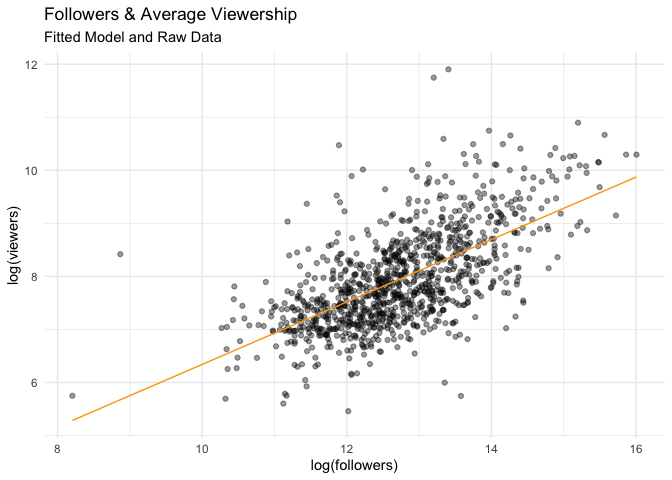
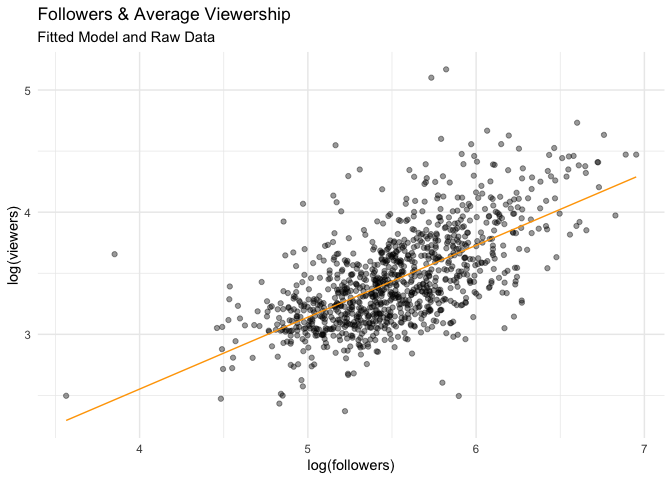
Fixing log

diff --git a/homework/chapter_5.md b/homework/chapter_5.md
@@ -1,4 +1,14 @@
-# Chapter 5
+---
+title: "Chapter 5 - Modern Dive"
+author: "Nicolas Restrepo"
+output: 
+  html_document: 
+    toc: true
+    theme: united
+    keep_md: true
+---
+
+
 
 We are getting into more complex topics, like how to fit and interpret models. In this section, we will use all the tools we have learned - from wrangling to visualization - to make sure we fit appropriate models and that we understand what these models are doing. Models can be powerful inferential tools but they can also be misleading (like anything). It is important that we know what is powering the machinery we are using so that we always know whether to trust the results we get. 
 
@@ -13,7 +23,7 @@ library(tidyverse)
 twitch_data <- read_csv("../Data/twitchdata-update.csv")
 ```
 
-The names of the variables here are a bit annoying. They are capitalized and have spaces which makes them awkward to work with in `R`. Let me show you a neat trick. First, install a package called `janitor` if you don't have it yet. Then, let's load it and clean the names. 
+The names of th variables here are a bit annoying. They are capitalized and have spaces which makes them awkward to work with in R. Let me show you a neat trick. First, install a package called `janitor` if you don't have it yet. Then, let's load it and clean the names. 
 
 
 ```r
@@ -50,20 +60,22 @@ Hopefully you have learned something important here: often the relationship betw
 
 ```r
 twitch_data <- twitch_data %>% 
-  mutate(log_viewers = log(average_viewers), 
-         log_followers = log(followers))
+  mutate(log_viewers = log10(average_viewers), 
+         log_followers = log10(followers))
 ```
 
 ## Question 2 
 
-Let's actually run a regression. Using `lm()` fit a model where you predict the logarithm of average viewers (`log_viewers`) using the logarithm of followers (`log_followers`). Save the results to an object called `fit1`.
+Let's actually run a regression. Using `lm()` fit a model where you predict the logarithm of average viewers (`log_viewers`) using the logarithm of followes (`log_followers`). Save the results to an object called `fit1`.
 
 I am going to show you another way of getting a summary of your model. First, let's install the `broom` package. After, run `tidy()` on your model object (`fit1`). 
+
+
+
 
 Before I have you describe your results I have to tell you that when you transform your variables, interpretation is a bit different. In the situation we are in - where your outcome and explanatory variables have been logged - the coefficients are interpreted as percentage increases. For example, let's say we have a coefficient of $0.4$. We would do the following: 
 
 $$ 1.1^{0.4} = 1.03886 $$
-
 And we would interpret our coefficient like this: 
 
 > A 10% increase in followers is associated with a 3.9% increase in the average number of viewers. 
@@ -87,17 +99,17 @@ glimpse(pred_data)
 ```
 ## Rows: 1,000
 ## Columns: 8
-## $ log_viewers   <dbl> 10.229765, 10.150738, 9.303466, 8.950792, 10.295597, 10.…
-## $ log_followers <dbl> 14.99303, 15.48513, 14.38515, 15.18792, 16.00592, 14.262…
-## $ .fitted       <dbl> 9.278867, 9.568470, 8.921137, 9.393563, 9.874953, 8.8488…
-## $ .resid        <dbl> 0.9508978, 0.5822677, 0.3823296, -0.4427705, 0.4206438, …
+## $ log_viewers   <dbl> 4.442731, 4.408410, 4.040444, 3.887280, 4.471321, 4.6275…
+## $ log_followers <dbl> 6.511388, 6.725108, 6.247393, 6.596030, 6.951284, 6.1940…
+## $ .fitted       <dbl> 4.029761, 4.155534, 3.874400, 4.079572, 4.288638, 3.8430…
+## $ .resid        <dbl> 0.4129697, 0.2528757, 0.1660436, -0.1922928, 0.1826833, …
 ## $ .hat          <dbl> 0.006194481, 0.008694557, 0.003782169, 0.007126066, 0.01…
-## $ .sigma        <dbl> 0.7104812, 0.7108819, 0.7110196, 0.7109838, 0.7109968, 0…
+## $ .sigma        <dbl> 0.3085580, 0.3087321, 0.3087919, 0.3087764, 0.3087820, 0…
 ## $ .cooksd       <dbl> 0.0056128779, 0.0029688873, 0.0005513456, 0.0014026033, …
 ## $ .std.resid    <dbl> 1.3420109, 0.8227954, 0.5389316, -0.6251793, 0.5953620, …
 ```
 
-Look, it's our original data but also a bunch more information. The `.fitted` column includes our predictions given our line of best fit. `.resid` contains the residuals. Let's visualize our line of best fit: 
+Look, it's our original data but also a bunch more information. The `.fitted` column includes our predictions given our line of best fit. `.resid` contans the residuals. Let's visualize our line of best fit: 
 
 
 ```r
@@ -121,7 +133,7 @@ Do you think our model describes the relationship well?
 
 Now, you fit a plot where `log_followers` is in the x-axis and `.resid` is in the y-axis.
 
-What do you see? Are there any big residuals? Do they happen often in a particular range of our x-variable? If so, we would have a problem: our model would systematically fail to predict part of our data. 
+What do you see? Are there any big residuals? DO they happen often in a particular range of our x-variable? If so, we would have a problem: our model would systematically fail to predict part of our data. 
 
 ## Question 4 
 
@@ -145,7 +157,6 @@ twitch_data <- twitch_data %>%
 ```
 
 Now, fit your model. Your coefficients will tell you how many more (or fewer) average viewers are related to streaming in languages different than English. 
-
 Interpret the results. How is my prediction doing? 
 
 ## Question 6
